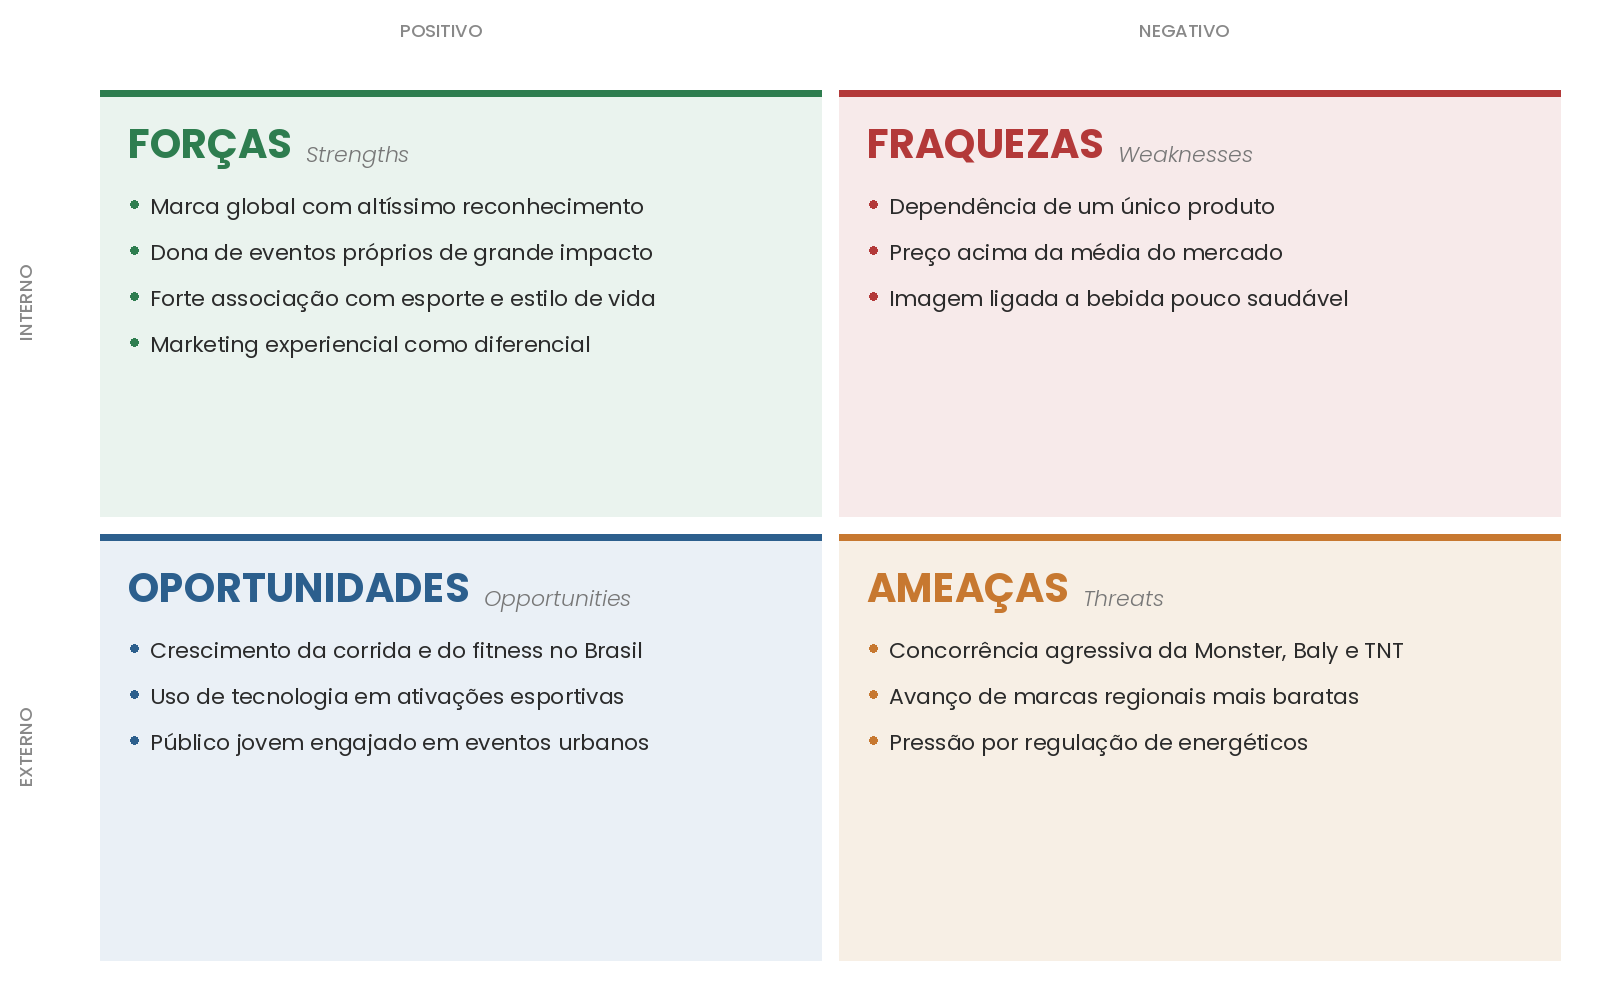
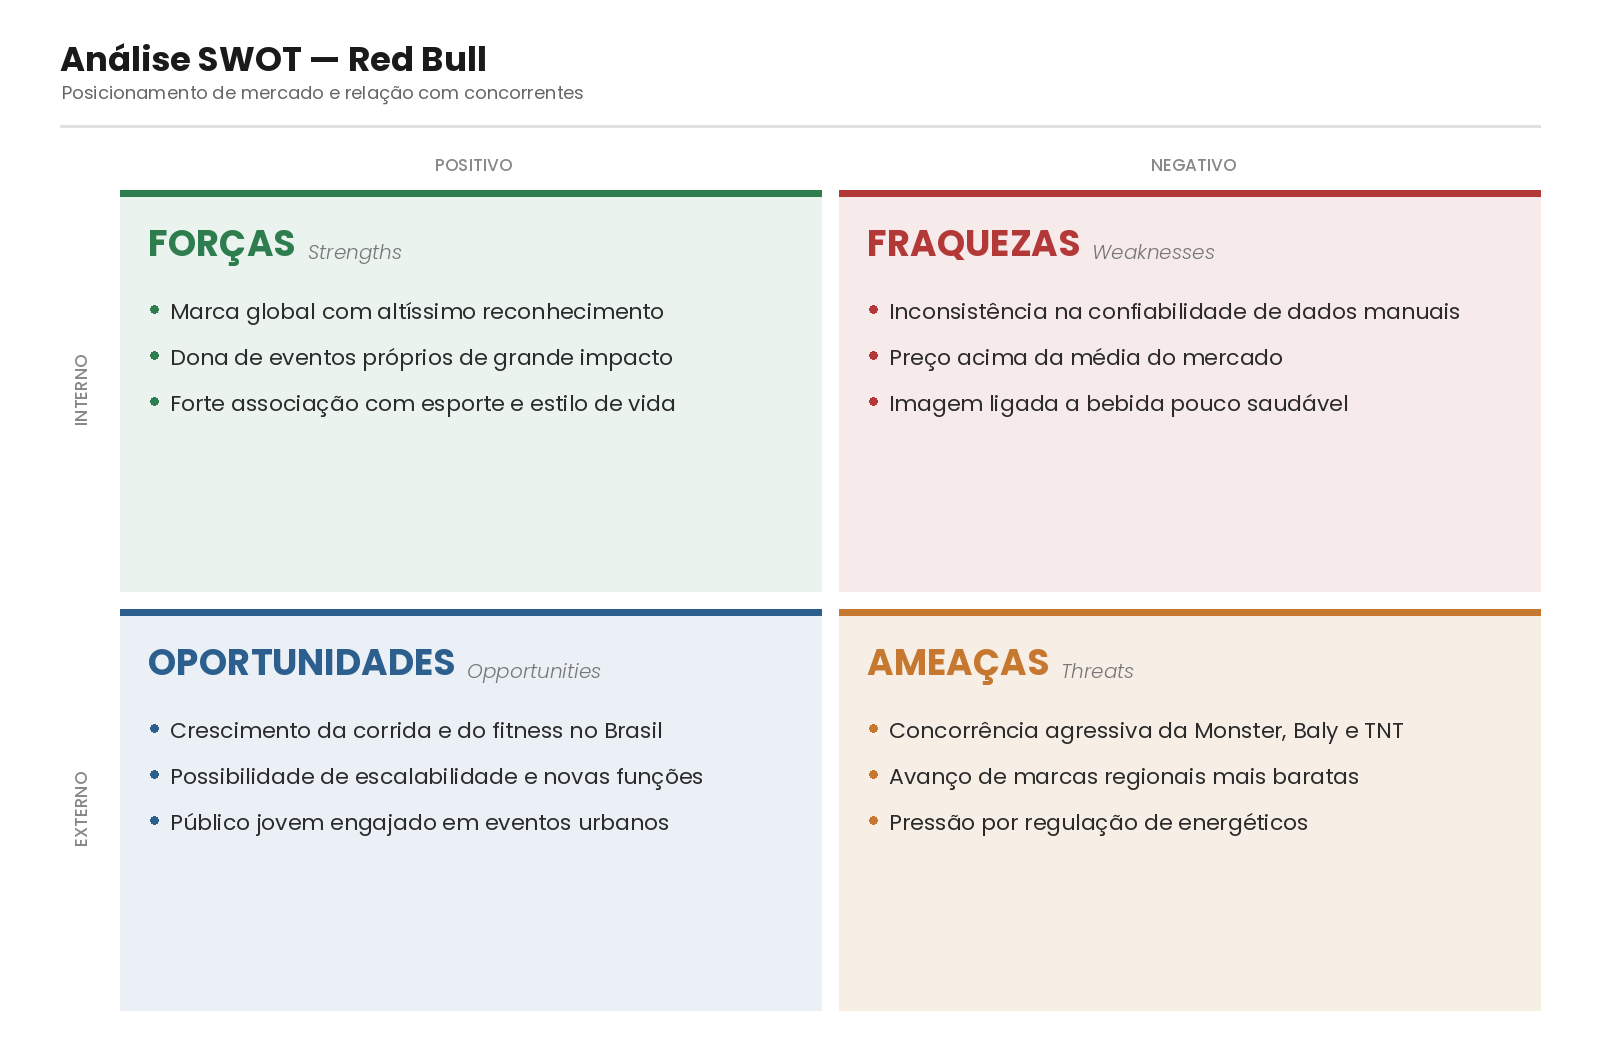
arrumando a SWOT com as sugestoes do Andre

diff --git a/documentos/wad.md b/documentos/wad.md
@@ -56,7 +56,15 @@
 
 ### 2.1.2. Análise SWOT da Instituição Parceira (sprint 1)
 
+A Red Bull é uma marca conhecida no mundo inteiro e que investe muito em esporte, então fazer uma SWOT antes de começar o projeto ajudou a gente a entender melhor com quem está trabalhando e o que precisa ser pensado na hora de desenvolver a solução. A Figura 1 mostra a matriz que montamos.
+
+*Figura 1 — Análise SWOT da Red Bull*
+
 <img src="../assets/Analise_Swot.png">
+
+<sub>Fonte: elaborado pelos autores (2026).</sub>
+
+O ponto mais forte da Red Bull é a marca em si e os eventos próprios, e o 24 Horas se encaixa bem nessa linha. A maior fraqueza para o nosso projeto é como a contagem dos quilômetros é feita hoje, no papel, o que abre espaço para erros. Do lado de fora, a corrida vem crescendo no Brasil e isso pesa a favor, mas também tem concorrência forte de Monster, Baly e TNT, sem contar que energético é um produto que sempre acende o debate sobre saúde.
 
 ### 2.1.3. Solução (sprints 1 a 5)
 